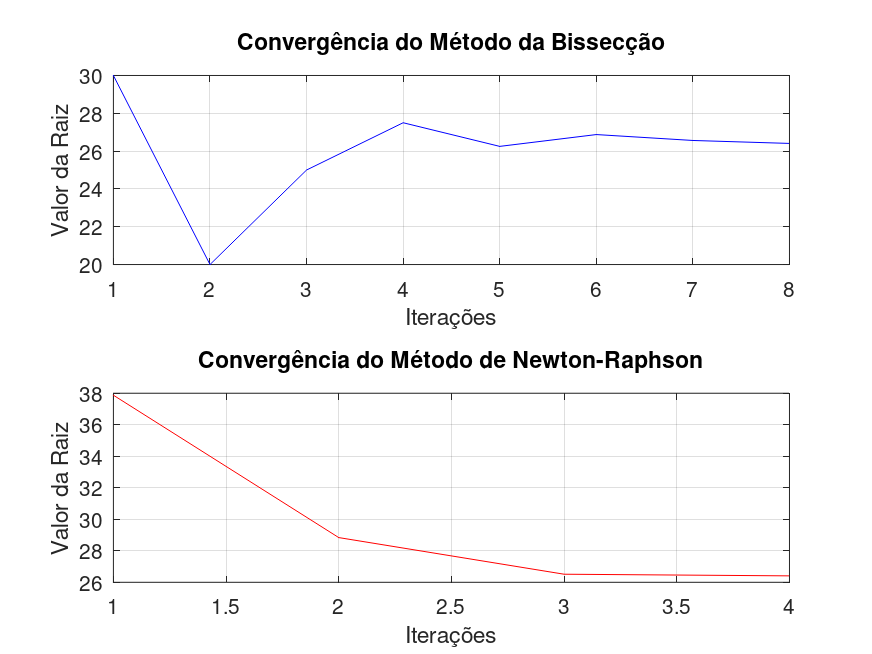
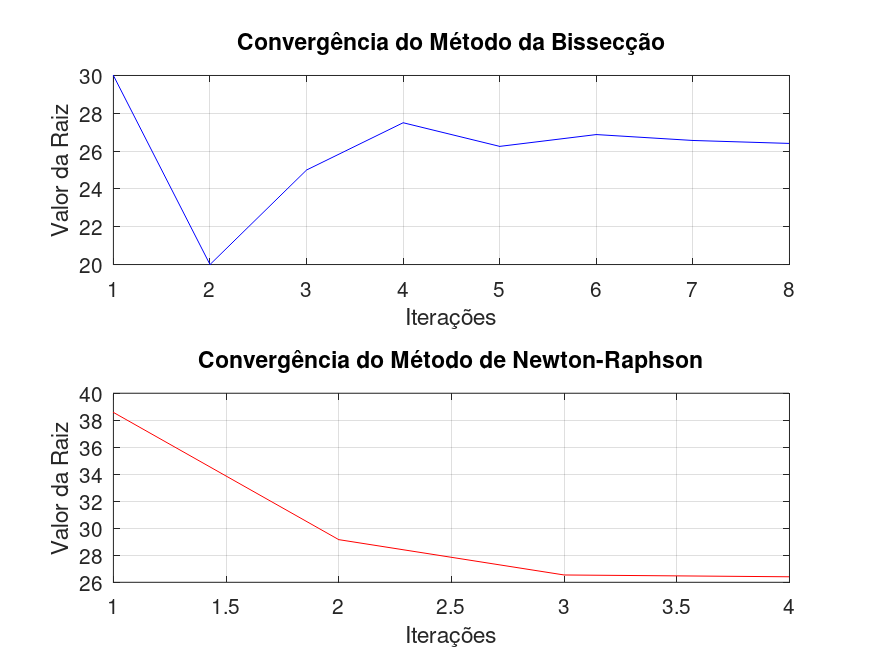
Quase finalizado

diff --git a/Lista 5 - Alex e Bruno/P1/lista5Questao1.m b/Lista 5 - Alex e Bruno/P1/lista5Questao1.m
@@ -15,7 +15,7 @@ function lista5Questao1()
     [rootBisseccao, itBisseccao, valoresBisseccao] = metodoBisseccao(f, a, b, Es);
 
     % Verifica se o método da bissecção retornou valores válidos
-    if isempty(rootBisseccao) || isempty(itBisseccao)
+    if isempty(rootBisseccao)
         disp("Erro no método da bissecção.");
         return;
     end
@@ -25,7 +25,7 @@ function lista5Questao1()
     [rootIteracaoLinear, itIteracaoLinear, valoresIteracaoLinear] = metodoIteracaoLinear(f, P, A, n, Es);
 
     % Verifica se o método de iteração linear retornou valores válidos
-    if isempty(rootIteracaoLinear) || isempty(itIteracaoLinear)
+    if isempty(rootIteracaoLinear)
         disp("Erro no método de iteração linear.");
         return;
     end
@@ -39,7 +39,7 @@ endfunction
 
 function [r, it, valores] = metodoBisseccao(f, a, b, Es)
     Ea = Inf; % Erro absoluto inicial
-    r = [];  % Inicializa como vazio para evitar erros
+    r = NaN;  % Inicializa como NaN para evitar erros
     it = 0;   % Contador de iterações
     n = 30;   % Número máximo de iterações
     valores = []; % Armazena os valores de r
@@ -61,12 +61,14 @@ function [r, it, valores] = metodoBisseccao(f, a, b, Es)
         fprintf('Iteração %d: a = %f, b = %f, r = %f, f(r) = %f, Aproximado = %f\n', ...
                 it + 1, a, b, r, f(r), Ea);
 
+        % Verificação da convergência
         if (Ea <= Es)
             fprintf("Raiz encontrada: %f\n", r);
-            break;
+            it = it + 1;  % Incrementa apenas se a raiz for encontrada
+            return;  % Retorna a raiz encontrada
         end
 
-        it = it + 1;
+        it = it + 1; % Incrementa o contador de iterações
 
         if (f(a) * f(r) < 0)
             b = r; % Atualiza o limite superior
@@ -75,14 +77,8 @@ function [r, it, valores] = metodoBisseccao(f, a, b, Es)
         end
     endwhile
 
-    if it >= n
-        fprintf("Método falhou em %d iterações\n", it);
-    end
-
-    % Adicione uma verificação se 'r' é vazio
-    if isempty(r)
-        r = NaN; % Atribuir NaN para indicar que não foi encontrada raiz
-    end
+    % Se o loop terminar sem encontrar uma raiz, retorna NaN
+    r = NaN;
 endfunction
 
 function [r, it, valores] = metodoIteracaoLinear(f, P, A, n, Es)
@@ -111,18 +107,14 @@ function [r, it, valores] = metodoIteracaoLinear(f, P, A, n, Es)
 
         % Verificação da convergência
         if (Ea < Es)
-            fprintf("Iterações %d: Raiz encontrada: %f\n", it, xr);
+            fprintf("Raiz encontrada: %f\n", xr);
             r = xr; % Atribui r como a raiz encontrada
             return; % Encerra a função se a raiz for encontrada
         end
     endwhile
 
-    fprintf("Método falhou em %d iterações\n", it);
-
-    % Adicione uma verificação se 'xr' não foi atualizado
-    if it == nIter
-        r = NaN; % Atribuir NaN para indicar que não foi encontrada raiz
-    end
+    % Se o loop terminar sem encontrar uma raiz, retorna NaN
+    r = NaN;
 endfunction
 
 function Ea = calcularErroEstimativa(resultadoAtual, resultadoPrev)

diff --git a/Lista 5 - Alex e Bruno/P1/lista5Questao2.m b/Lista 5 - Alex e Bruno/P1/lista5Questao2.m
@@ -11,7 +11,7 @@ function lista5Questao2()
     b = 50; % Tempo final (em anos)
 
     % Define a tolerância para o erro absoluto
-    Es = 5e-5; % Tolerância em porcentagem
+    Es = 5e-4; % Tolerância em porcentagem
 
     % Executar o método da bissecção
     fprintf("Método da Bissecção:\n");
@@ -34,10 +34,10 @@ function lista5Questao2()
     end
 
     % Criar tabela comparativa
-    criar_tabela(itBisseccao, rootBisseccao, itSecante, rootSecante);
+    criar_tabela(itBisseccao+1, rootBisseccao, itSecante+1, rootSecante);
 
     % Criar gráficos de convergência
-    criar_graficos(itBisseccao, valoresBisseccao, itSecante, valoresSecante);
+    criar_graficos(itBisseccao+1, valoresBisseccao, itSecante+1, valoresSecante);
 endfunction
 
 function [r, it, valores] = metodoBisseccao(Pu_max, Ps_max, P0, ku, ks, a, b, Es)
@@ -102,7 +102,7 @@ function [r, it, valores] = metodoSecante(Pu_max, Ps_max, P0, ku, ks, Es)
         valores = [valores; xProx]; % Armazena o valor atual
 
         % Mensagem de depuração para ver os valores
-        fprintf('Iteração %d: xr = %f, f(x) = %f, Ea = %f\n', it + 1, xProx, f(xProx), Ea);
+        fprintf('Iteração %d: xr = %f, f(x) = %f, Ea = %f\n', it+1, xProx, f(xProx), Ea);
 
         Ea = calcularErroEstimativa(xProx, x); % Cálculo do erro absoluto
 
@@ -118,7 +118,7 @@ function [r, it, valores] = metodoSecante(Pu_max, Ps_max, P0, ku, ks, Es)
         it = it + 1; % Incrementa o contador de iterações
     endwhile
 
-    fprintf("Método falhou em %d iterações\n", it);
+    fprintf("Método falhou em %d iterações\n", it+1);
 
     if it >= N
         r = NaN; % Atribuir NaN para indicar que não foi encontrada raiz
@@ -142,8 +142,8 @@ endfunction
 function criar_tabela(itBisseccao, rootBisseccao, itSecante, rootSecante)
     fprintf("\nTabela Comparativa:\n");
     fprintf("%-20s %-20s %-20s\n", "Método", "Número de Iterações", "Resultado Final");
-    fprintf("%-20s %-20d %-20f\n", "Bissecção", itBisseccao, rootBisseccao);
-    fprintf("%-20s %-20d %-20f\n", "Secante", itSecante, rootSecante);
+    fprintf("%-20s %-20d %-20.6f\n", "Bissecção", itBisseccao, rootBisseccao);
+    fprintf("%-20s %-20d %-20.6f\n", "Secante", itSecante, rootSecante);
 endfunction
 
 function criar_graficos(itBisseccao, valoresBisseccao, itSecante, valoresSecante)

diff --git a/Lista 5 - Alex e Bruno/P1/lista5Questao3.m b/Lista 5 - Alex e Bruno/P1/lista5Questao3.m
@@ -21,16 +21,16 @@ function lista5Questao3()
     [rootNewton, itNewton, valoresNewton] = metodoNewtonRaphson(f, e, q, Q, raio, Es);
 
     % Criar tabela comparativa
-    criar_tabela(itSecante, rootSecante, itNewton, rootNewton);
+    criar_tabela(itSecante+1, rootSecante, itNewton+1, rootNewton);
 
     % Criar gráficos de convergência
-    criar_graficos(itSecante, itNewton, valoresSecante, valoresNewton);
+    criar_graficos(itSecante+1, itNewton+1, valoresSecante, valoresNewton);
 endfunction
 
 function [r, it, valores] = metodoSecante(f, Es)
     Ea = Inf; % Erro absoluto inicial
-    xPrevio = 0.5; % Valor inicial
-    x = 0.6; % Valor inicial
+    xPrevio = 0; % Valor inicial
+    x = 0.5; % Valor inicial
     it = 0; % Contador de iterações
     N = 20; % Número máximo de iterações
     valores = []; % Array para armazenar valores de x
@@ -42,7 +42,7 @@ function [r, it, valores] = metodoSecante(f, Es)
         % Armazena o valor atual para o gráfico
         valores = [valores; xProx];
 
-        fprintf('Iteração %d: xr = %f, f(x) = %f, Ea = %f\n', it, x, f(x), Ea);
+        fprintf('Iteração %d: xr = %f, f(x) = %f, Ea = %f\n', it+1, x, f(x), Ea);
 
         if (Ea < Es)
             fprintf("Iterações %d: Raiz encontrada: %f\n", it + 1, xProx);
@@ -54,7 +54,7 @@ function [r, it, valores] = metodoSecante(f, Es)
         x = xProx;
     endfor
 
-    fprintf("Método falhou em %d iterações\n", it);
+    fprintf("Método falhou em %d iterações\n", it + 1);
     r = NaN; % Indica falha
 endfunction
 
@@ -77,7 +77,7 @@ function [r, it, valores] = metodoNewtonRaphson(f, e, q, Q, raio, Es)
         % Armazena o valor atual para o gráfico
         valores = [valores; xProx];
 
-        fprintf('Iteração %d: xr = %f, f(x) = %f, Ea = %f\n', it, x, f(x), Ea);
+        fprintf('Iteração %d: xr = %f, f(x) = %f, Ea = %f\n', it + 1, x, f(x), Ea);
 
         if (Ea < Es)
             fprintf("Iterações %d: Raiz encontrada: %f\n", it + 1, xProx);

diff --git a/Lista 5 - Alex e Bruno/P1/lista5Questao6.m b/Lista 5 - Alex e Bruno/P1/lista5Questao6.m
@@ -34,6 +34,7 @@ function [r, it, valores] = metodoFalsaPosicao(Q, g)
     if (f(a) * f(b) > 0)
         disp("Erro: não há mudança de sinal!");
         r = NaN; % Indica falha
+        it = 0; % Ajusta para zero iterações, se falhar
         return;
     else
         it = 1; % Inicializa o contador de iterações
@@ -87,22 +88,22 @@ function [r, it, valores] = metodoSecante(Q, g)
     Ea = Inf; % Erro absoluto inicial
     valores = []; % Armazena os valores de r
 
-    it = 0; % Inicializa o contador de iterações
+    it = 1; % Inicializa o contador de iterações
     N = 20; % Define o número máximo de iterações
     x = 2; % Estimativa inicial
     xPrevio = 1; % Segunda estimativa inicial
 
-    while (it < N)
+    while (it <= N)
         xProx = (xPrevio * f(x) - x * f(xPrevio)) / (f(x) - f(xPrevio)); % Cálculo do próximo valor
         valores = [valores; xProx]; % Armazena o novo valor de r
 
         fprintf('Iteração %d: xr = %f, f(x) = %f\n', ...
-                it + 1, x, f(x));
+                it, x, f(x));
 
         Ea = calcularErroEstimativa(xProx, x);
 
         if (Ea < Es)
-            fprintf("Iterações %d: Raiz encontrada: %f\n", it + 1, xProx);
+            fprintf("Iterações %d: Raiz encontrada: %f\n", it, xProx);
             r = xProx; % A raiz encontrada
             return; % Sai do loop
         end
@@ -155,7 +156,4 @@ function criar_graficos(itFalsaPosicao, valoresFalsaPosicao, itSecante, valoresS
     % Salvar gráficos
     saveas(gcf, 'convergencia_metodos_falsa_posicao_secante.png');
 endfunction
-
-% Chama a função principal
-lista5Questao6();
 

diff --git a/Lista 5 - Alex e Bruno/P1/lista5Questao5.m b/Lista 5 - Alex e Bruno/P1/lista5Questao5.m
@@ -15,10 +15,10 @@ function lista5Questao5()
     [rootNewtonRaphson, itNewtonRaphson, valoresNewtonRaphson] = metodoNewtonRaphson(u, mi, q, g, v);
 
     % Criar tabela comparativa
-    criar_tabela(itBisseccao, rootBisseccao, itNewtonRaphson, rootNewtonRaphson);
+    criar_tabela(itBisseccao, rootBisseccao, itNewtonRaphson+1, rootNewtonRaphson);
 
     % Criar gráficos de convergência
-    criar_graficos(itBisseccao, valoresBisseccao, itNewtonRaphson, valoresNewtonRaphson);
+    criar_graficos(itBisseccao, valoresBisseccao, itNewtonRaphson+1, valoresNewtonRaphson);
 endfunction
 
 function [r, it, valores] = metodoBisseccao(u, mi, q, g, v)
@@ -86,7 +86,7 @@ function [r, it, valores] = metodoNewtonRaphson(u, mi, q, g, v)
     f = @(t) u * log(mi / (mi - q * t)) - g * t - v;
     df = @(t) (u * q / (mi - q * t)) - g; % Derivada da função
 
-    x = 50; % Valor inicial para t
+    x = 0; % Valor inicial para t
     it = 0; % Inicializa o contador de iterações
     N = 20; % Define o número máximo de iterações
     Ea = Inf; % Erro absoluto inicial
@@ -111,7 +111,7 @@ function [r, it, valores] = metodoNewtonRaphson(u, mi, q, g, v)
     endwhile
 
     % Se o número máximo de iterações for atingido sem encontrar a raiz
-    fprintf("Método falhou em %d iterações\n", it);
+    fprintf("Método falhou em %d iterações\n", it+1);
     r = NaN; % Indica falha
 endfunction
 

diff --git a/Lista 5 - Alex e Bruno/P2/lista5Questao3.m b/Lista 5 - Alex e Bruno/P2/lista5Questao3.m
@@ -27,7 +27,7 @@ function lista5Questao3()
     [rootSecante, itSecante, valoresSecante] = metodoSecante(e, F, q, Q, raio);
 
     % Criar tabela comparativa
-    criar_tabela(itBisseccao, rootBisseccao, itFalsaPosicao, rootFalsaPosicao, itIteracaoLinear, rootIteracaoLinear, itNewtonRaphson, rootNewtonRaphson, itSecante, rootSecante);
+    criar_tabela(itBisseccao, rootBisseccao, itFalsaPosicao, rootFalsaPosicao, itIteracaoLinear, rootIteracaoLinear, itNewtonRaphson+1, rootNewtonRaphson, itSecante, rootSecante);
 
     % Criar gráficos de convergência
     criar_graficos(valoresBisseccao, valoresFalsaPosicao, valoresIteracaoLinear, valoresNewtonRaphson, valoresSecante);

diff --git a/Lista 5 - Alex e Bruno/P1/lista5Questao4.m b/Lista 5 - Alex e Bruno/P1/lista5Questao4.m
@@ -7,7 +7,7 @@ function lista5Questao4()
     f = @(h) ((pi * h.^2) / 3) * (3 * r - h) - Vs;
 
     % Define a tolerância para o erro absoluto
-    Es = 5e-5; % Tolerância em porcentagem
+    Es = 5e-4; % Tolerância em porcentagem
 
     % Executar o método da Falsa Posição
     fprintf("Método da Falsa Posição:\n");
